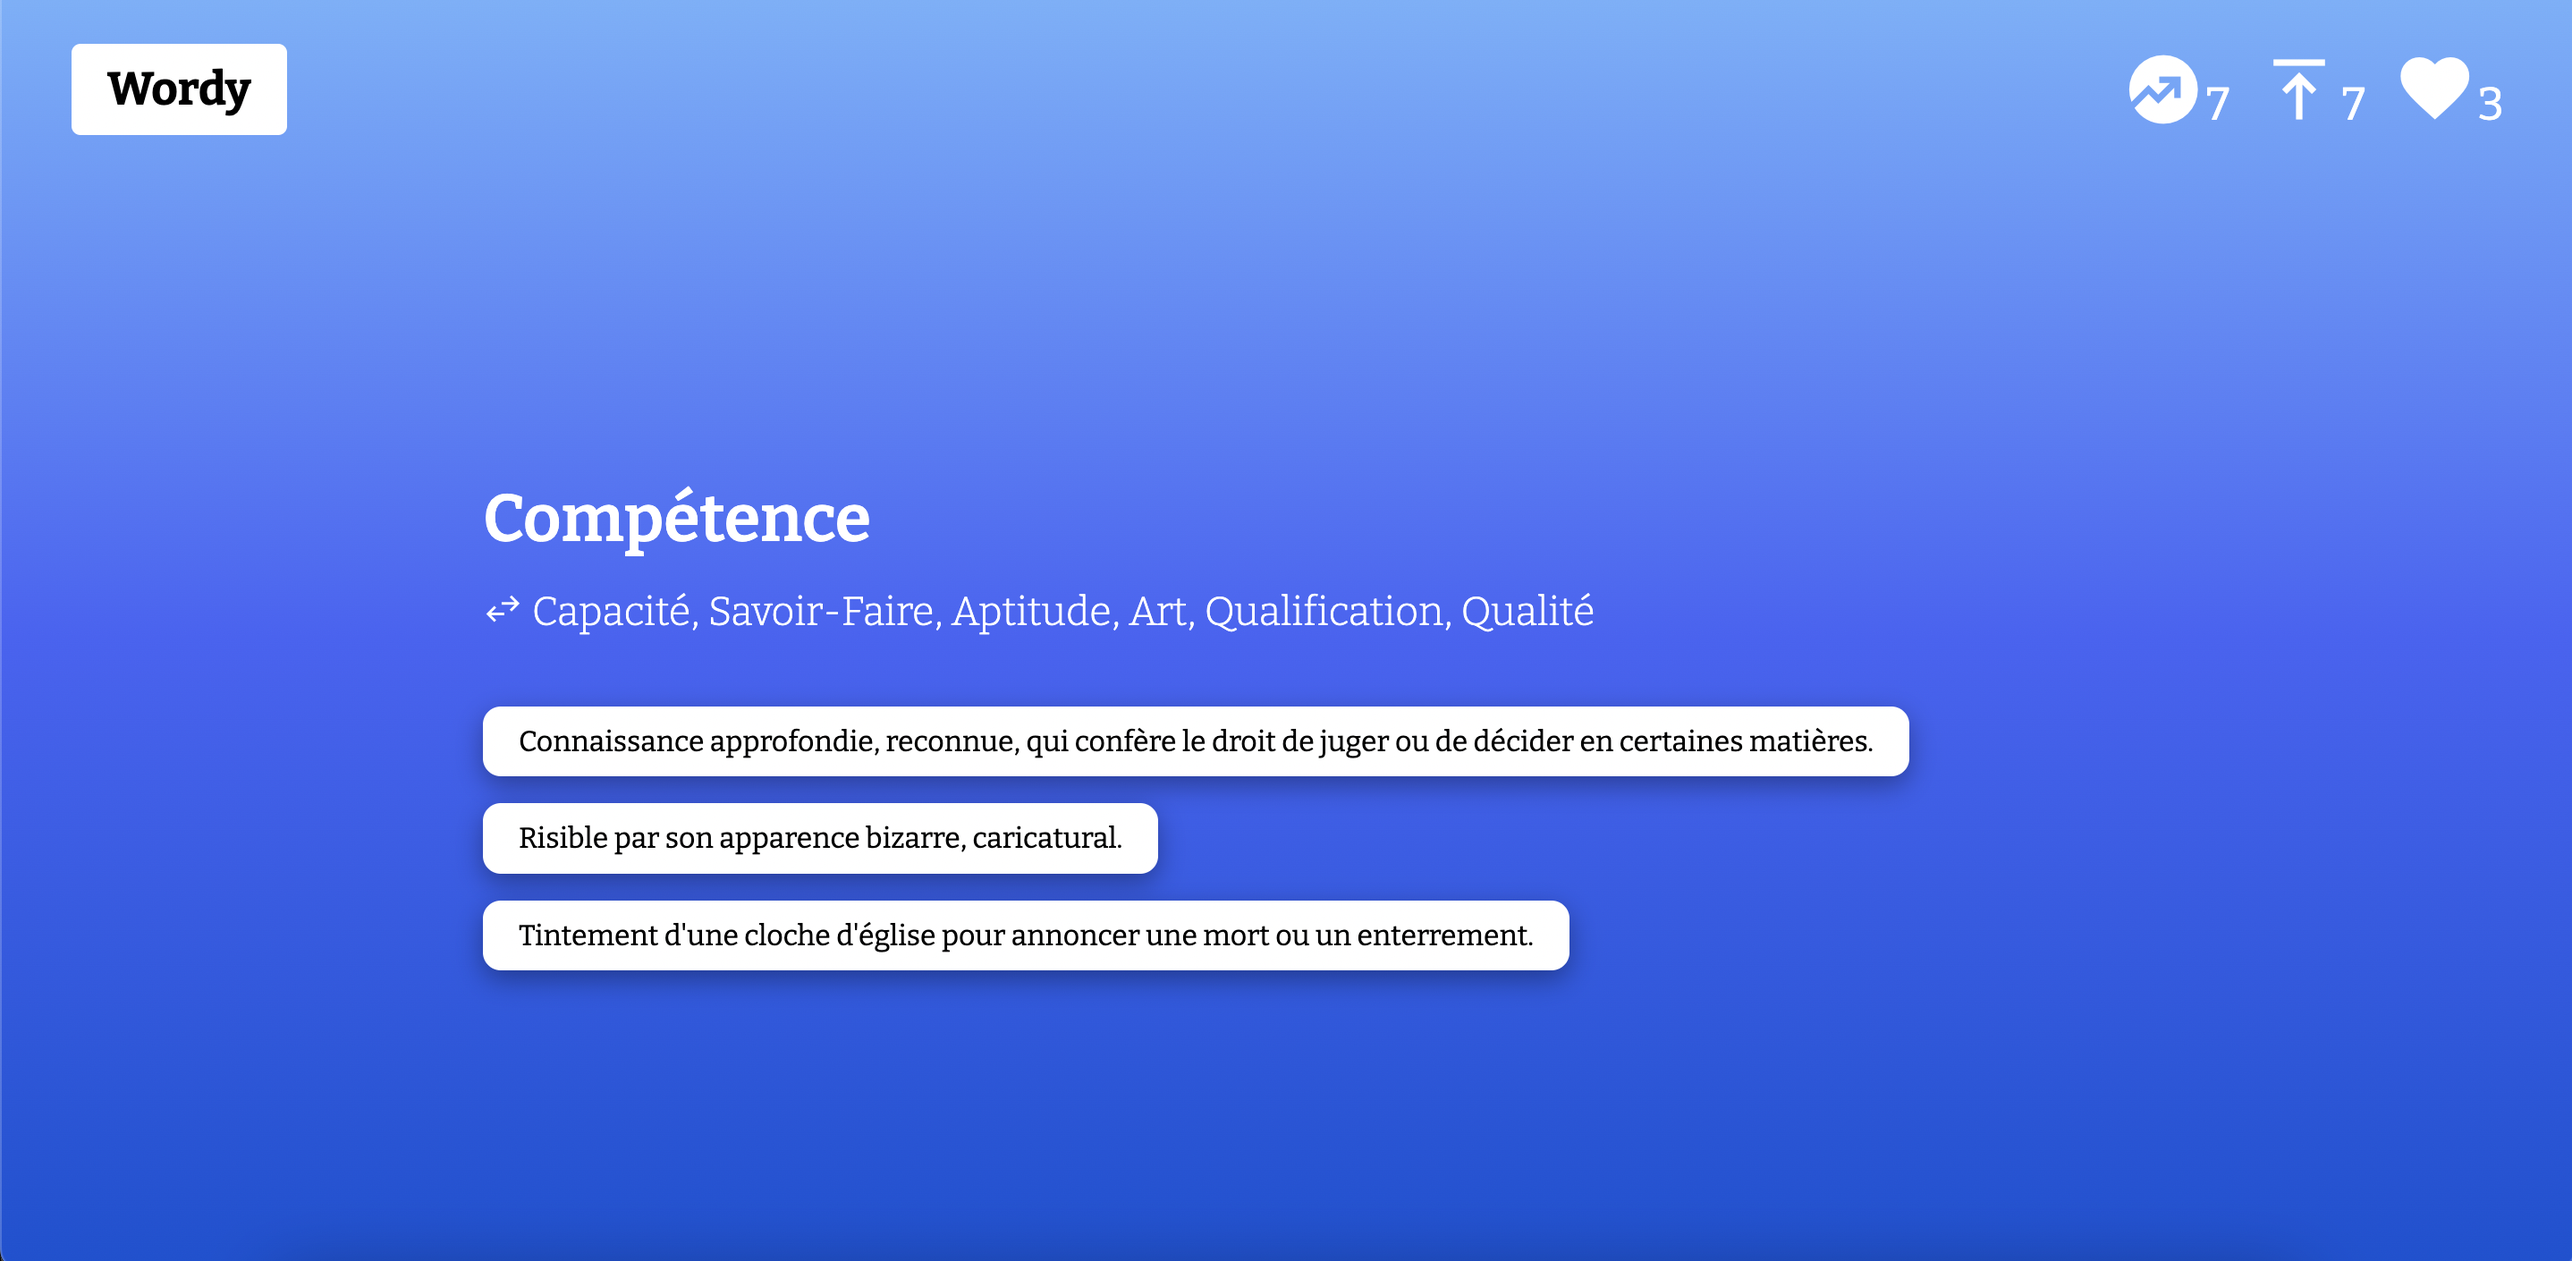
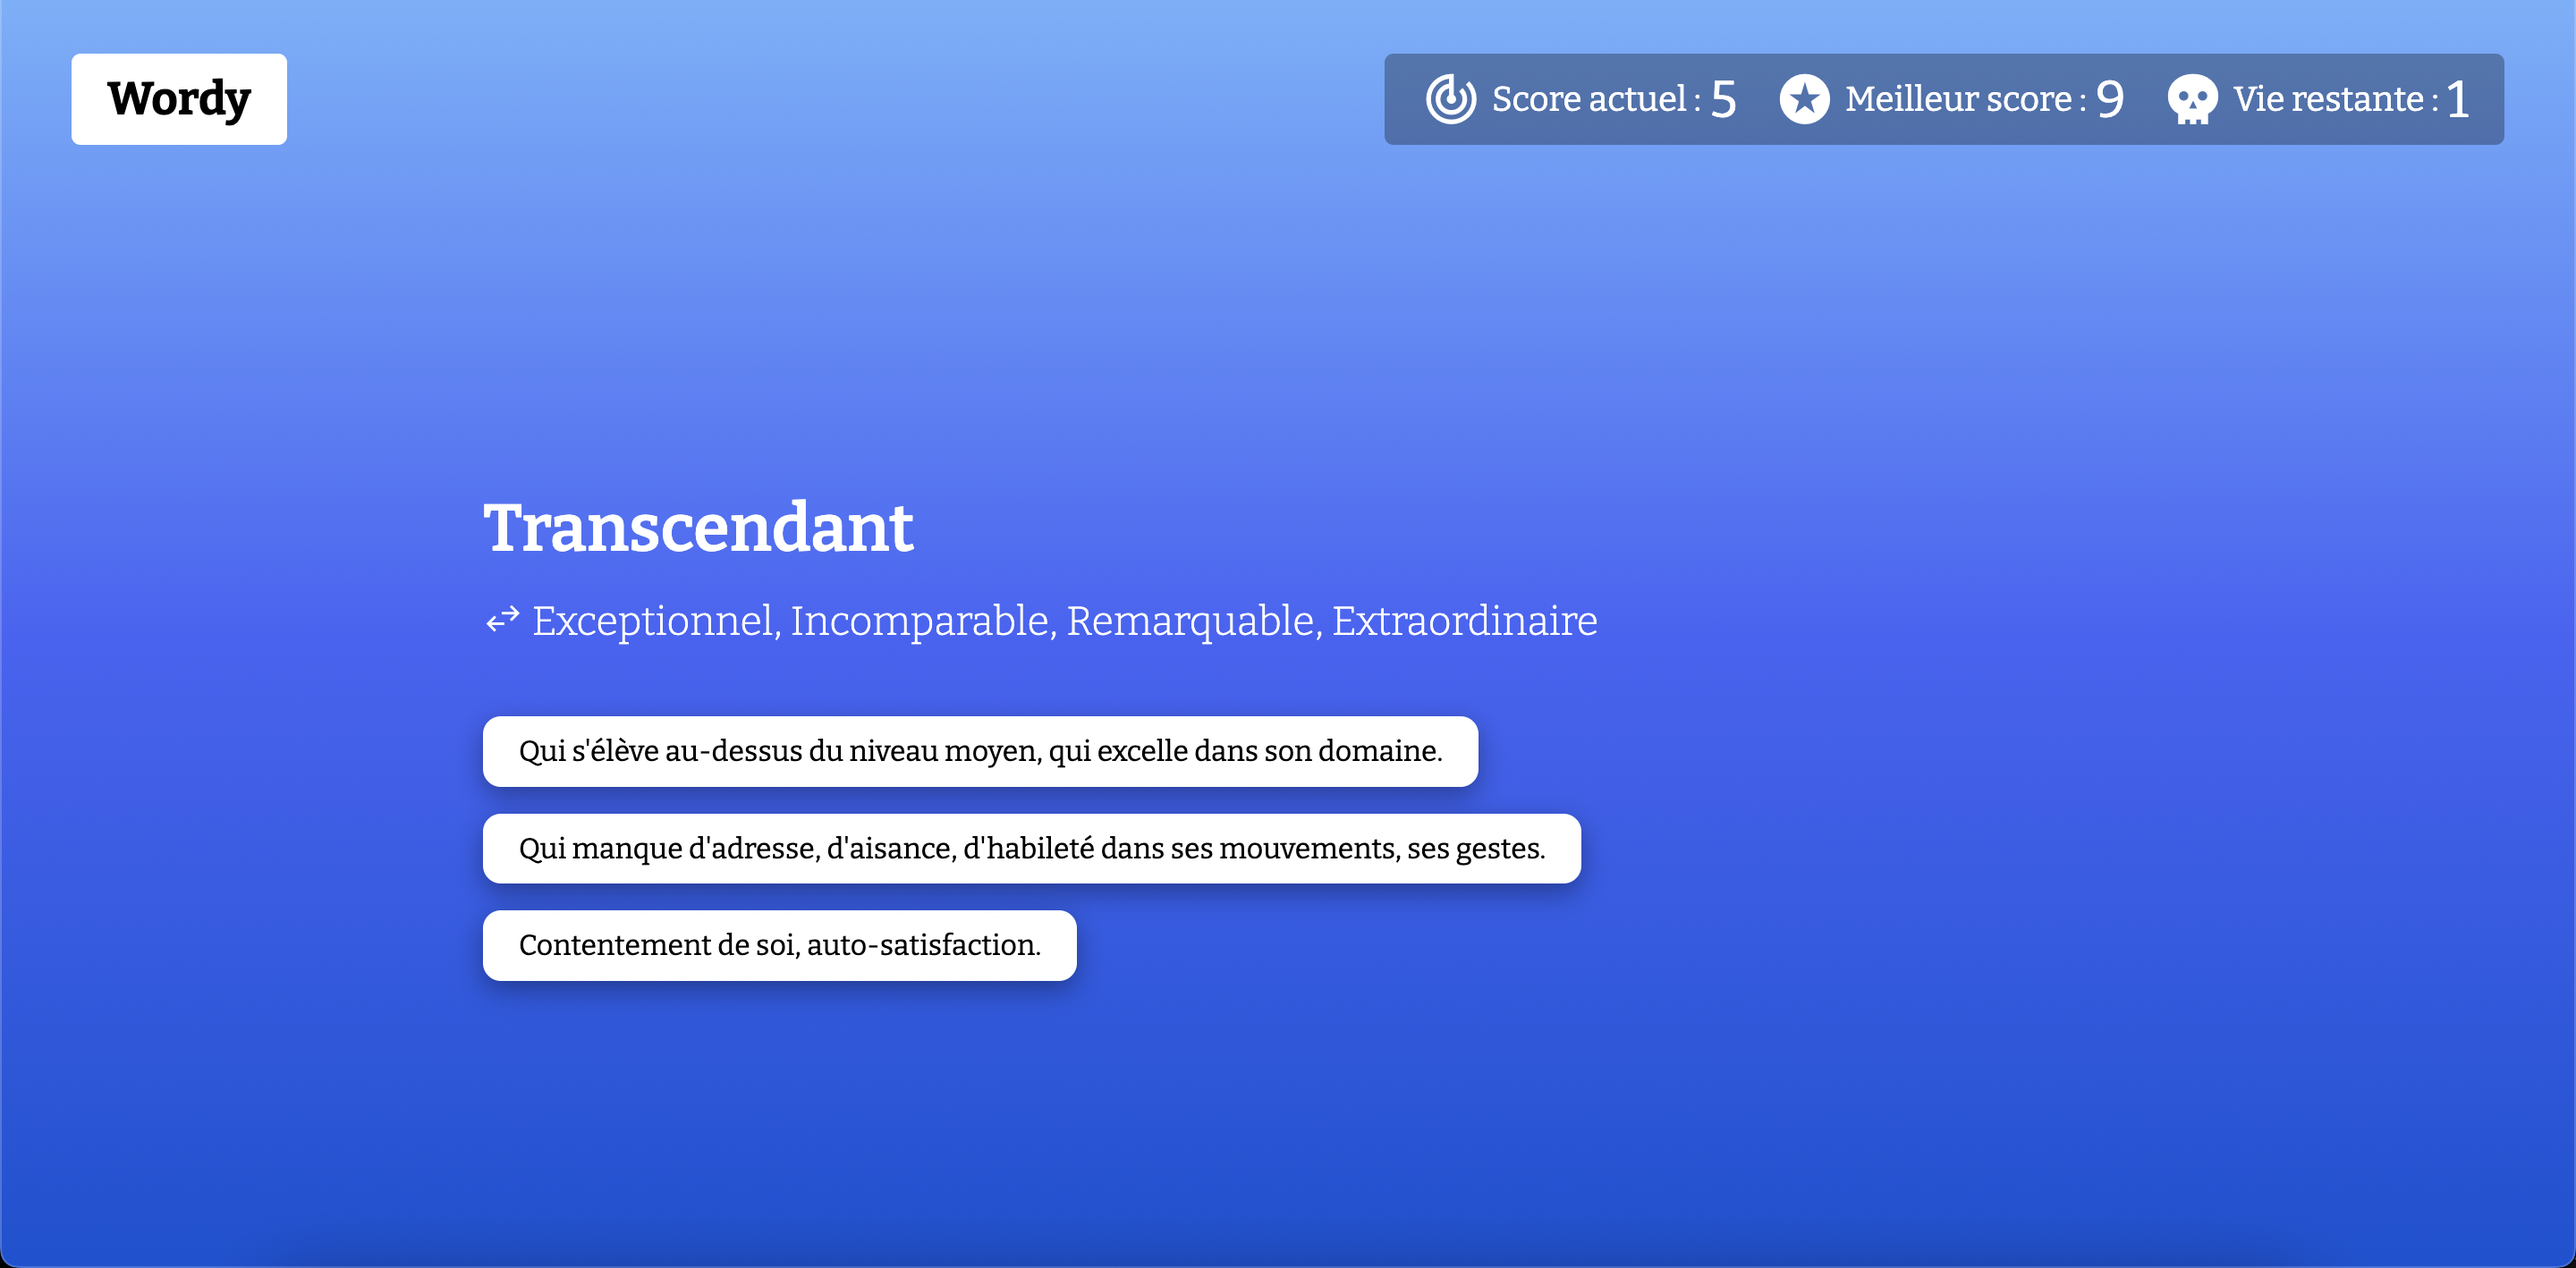
feat(stats): update

diff --git a/src/pages/quiz/QuizPage.tsx b/src/pages/quiz/QuizPage.tsx
@@ -11,7 +11,8 @@ import { getQuiz } from "../../services/quiz";
 import { IChoice } from "../../interfaces/IChoice";
 import { IQuiz } from "../../interfaces/IQuiz";
 import styles from "./QuizPage.module.scss";
-import choc from "../../assets/img/choc.png";
+import love from "../../assets/img/love.png";
+import scared from "../../assets/img/scared.png";
 import tired from "../../assets/img/tired.png";
 
 /* -------------------------------------------------------------------------- */
@@ -146,8 +147,9 @@ export const QuizPage = () => {
               img={tired}
               btnText="Réinitialiser le jeu"
               cb={resetGame}
-              text={error}
-            />
+            >
+              {error}
+            </Information>
           )}
 
           {!isLoading && !error && !data && (
@@ -155,12 +157,21 @@ export const QuizPage = () => {
               img={tired}
               btnText="Réinitialiser le jeu"
               cb={resetGame}
-              text="Aucune donnée"
-            />
+            >
+              Aucune donnée
+            </Information>
           )}
 
           {!isLoading && data && isGameHover && (
-            <Information img={choc} btnText="Rejouer" cb={replayGame} />
+            <Information
+              img={currentScore === bestScore ? love : scared}
+              btnText="Rejouer"
+              cb={replayGame}
+            >
+              {currentScore === bestScore
+                ? "Félicitation pour ton meilleur score !"
+                : `${currentScore} points ! Tu as déjà fait mieux que ça...`}
+            </Information>
           )}
 
           {!isLoading && data && !isGameHover && (

diff --git a/src/components/Header/Header.tsx b/src/components/Header/Header.tsx
@@ -20,22 +20,22 @@ export const Header = ({
   return (
     <header className={styles.header}>
       <Link to="/">
-        <div className={[styles.logo, "logo"].join(" ")}>Wordy</div>
-        <div className={[styles.logoMobile, "logo-mobile"].join(" ")}>W</div>
+        <div className="logo">Wordy</div>
       </Link>
       <div className={styles.stats}>
-        <div>
-          <span className="material-symbols-outlined stats">whatshot</span>
+        <div className={styles.stat}>
+          <span className="material-symbols-outlined stats">track_changes</span>
+          <span className={styles.statText}>Score actuel :</span>
           <span>{currentScore}</span>
         </div>
-        <div>
-          <span className="material-symbols-outlined stats">
-            vertical_align_top
-          </span>
+        <div className={styles.stat}>
+          <span className="material-symbols-outlined stats">stars</span>
+          <span className={styles.statText}>Meilleur score :</span>
           <span>{bestScore}</span>
         </div>
-        <div>
-          <span className="material-symbols-outlined stats">favorite</span>
+        <div className={styles.stat}>
+          <span className="material-symbols-outlined stats">skull</span>
+          <span className={styles.statText}>Vie restante :</span>
           <span>{lifeRemaining}</span>
         </div>
       </div>

diff --git a/src/components/Header/Header.module.scss b/src/components/Header/Header.module.scss
@@ -6,36 +6,57 @@
 }
 
 .header {
-  min-height: 100px;
-  padding: 0 40px;
+  padding: 30px 40px;
 }
 
 .stats {
-  font-size: 1.6rem;
+  padding: 8px 20px;
+  font-size: 1.8rem;
   color: #ffffff;
-  text-align: right;
-  div {
-    display: flex;
-    justify-content: flex-start;
-    align-items: flex-end;
-    margin-left: 15px;
-  }
-  div > span {
-    flex: 1 1 48px;
+  background-color: rgba(0, 0, 0, 0.3);
+  border-radius: 5px;
+}
+
+.stat {
+  display: flex;
+  justify-content: center;
+  align-items: center;
+  &:not(:first-child) {
+    margin-left: 20px;
   }
 }
 
-@media (max-width: 500px) {
-  .logo {
-    display: none;
-  }
-  .logoMobile {
-    display: inline-block;
+.statText {
+  margin: 0 5px;
+  font-size: 1.2rem;
+}
+
+@media (max-width: 850px) {
+  .header {
+    display: block;
+    align-items: flex-start;
   }
   .stats {
-    font-size: 1.4rem;
-    div {
-      margin-left: 10px;
+    margin-top: 20px;
+  }
+  .stat {
+    &:not(:first-child) {
+      margin-left: 0px;
     }
+  }
+}
+
+@media (max-width: 720px) {
+  .stats {
+    display: block;
+    width: fit-content;
+    font-size: 1.6rem;
+  }
+  .stat {
+    justify-content: flex-start;
+    margin: 5px 0;
+  }
+  .statText {
+    font-size: 1rem;
   }
 }

diff --git a/src/components/Information/Information.tsx b/src/components/Information/Information.tsx
@@ -10,12 +10,12 @@ export const Information = ({
   img,
   btnText,
   cb,
-  text,
+  children,
 }: {
   img: string;
   btnText: string;
   cb: () => void;
-  text?: string;
+  children?: React.ReactNode;
 }) => {
   /* -------------------------------- TEMPLATE -------------------------------- */
   return (
@@ -24,7 +24,7 @@ export const Information = ({
         <img src={img} alt="illustration" />
       </figure>
 
-      {text && <div>{text}</div>}
+      {children && <div>{children}</div>}
 
       <button className="button" onClick={cb}>
         {btnText}

diff --git a/src/pages/quiz/QuizPage.module.scss b/src/pages/quiz/QuizPage.module.scss
@@ -2,7 +2,9 @@
   display: flex;
   justify-content: flex-start;
   align-items: center;
-  min-height: calc(100vh - 100px); // 100px is the header's min-height
+  min-height: calc(
+    100vh - 111px
+  ); // 111px is the header's height (51px + 60px padding)
 }
 
 .container {
@@ -11,7 +13,10 @@
   margin: 0 auto;
 }
 
-@media (max-width: 700px) {
+@media (max-width: 850px) {
+  .main {
+    min-height: auto;
+  }
   .container {
     width: 100%;
     padding: 40px;

diff --git a/src/index.css b/src/index.css
@@ -71,11 +71,11 @@ button {
 
 .material-symbols-outlined.stats {
   font-variation-settings: "FILL" 1, "wght" 400, "GRAD" 0, "opsz" 20;
-  font-size: 3rem;
+  font-size: 2.2rem;
 }
 
-@media (max-width: 500px) {
+@media (max-width: 720px) {
   .material-symbols-outlined.stats {
-    font-size: 2.6rem;
+    font-size: 1.8rem;
   }
 }
